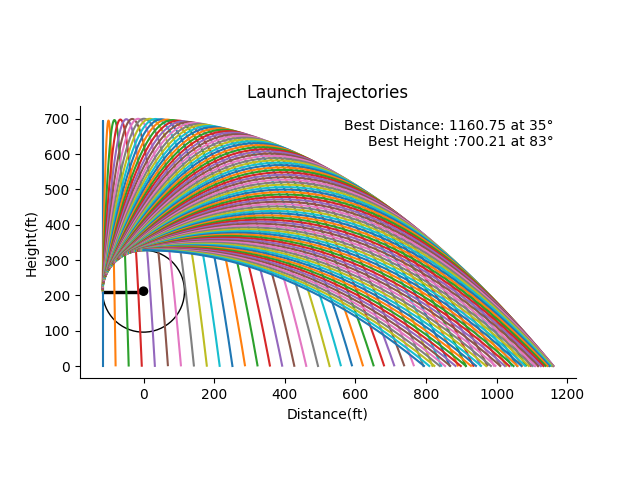
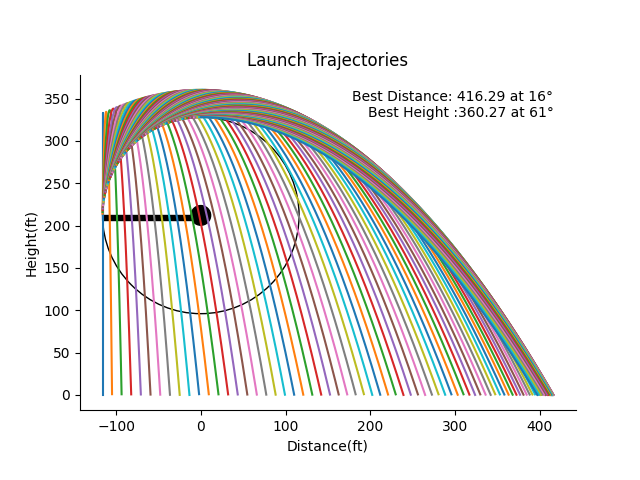
Added functions and classes

diff --git a/windmill.py b/windmill.py
@@ -1,12 +1,102 @@
 import math
 import matplotlib.pyplot as plt
 
-degree_sign = u'\N{DEGREE SIGN}'
+# Make my own ranges, functions, and classes
 def decimal_range(start, stop, decrement):
     while start >= stop:
         yield start
         start -= decrement
 
+class MyCircle:
+    upX, upY, leftX, leftY = [0,0,0,0]
+
+class MyAnnotation:
+    bestDistance, bestDistanceAngle, bestHeightAngle, bestHeight = [0,0,0,0]
+
+def UpdateCircleLocation(angle, time, distance, height):
+    if angle == 0 and time == 0:
+        circle.upX = MetersToFeet(distance)
+        circle.upY = MetersToFeet(height)
+    if angle == 90 and time == 0:
+        circle.leftX = MetersToFeet(distance)
+        circle.leftY = MetersToFeet(height)
+    return
+
+def UpdateBestHeightAndAngle(height, angle):
+    if height > annotation.bestHeight:
+                annotation.bestHeight = height
+                annotation.bestHeightAngle = angle
+    return
+
+def UpdateBestDistanceAndAngle(distance, angle):
+    if distance > annotation.bestDistance:
+        annotation.bestDistance = distance
+        annotation.bestDistanceAngle = angle
+    return
+
+def DrawProjectileLauncher():
+    draw_outer_circle = plt.Circle((circle.upX, circle.leftY), (circle.leftX - circle.upX), fill=False)
+    draw_inner_circle = plt.Circle((circle.upX, circle.leftY), (circle.leftX - circle.upX) / 10, color='black')#, fill=False)
+    draw_rectangle = plt.Rectangle((circle.upX, circle.leftY), (circle.leftX - circle.upX), (circle.leftX - circle.upX) / 20, color='black')
+    axes.set_aspect(1)
+    axes.add_artist(draw_outer_circle)
+    axes.add_artist(draw_inner_circle)
+    axes.add_patch(draw_rectangle)
+    return
+    
+def DrawPlot():
+    plt.gca().spines['top'].set_visible(False)
+    plt.gca().spines['right'].set_visible(False)
+    plt.annotate("Best Distance: {2:.2f} at {0}{1}\nBest Height :{4:.2f} at {3}{1}".format(annotation.bestDistanceAngle, degree_sign, annotation.bestDistance, annotation.bestHeightAngle, annotation.bestHeight), 
+                    xy=(annotation.bestDistance, annotation.bestHeight), ha='right', va='top')
+    plt.ylabel('Height(ft)')
+    plt.xlabel('Distance(ft)')
+    plt.title('Launch Trajectories')
+    figure.savefig("windmill.png")
+    plt.show() 
+    return
+
+def FeetToMeters(measurementInFeet):
+    return measurementInFeet / 3.2808399
+
+def MetersToFeet(measurementInMeters):
+    return measurementInMeters * 3.2808399
+
+def PlotData(velocityInitial, bodyHeight, armLength):
+    for angle in decimal_range(90, 0, 1):
+
+        yVelocityInitial = math.sin(angle * (math.pi / 180)) * velocityInitial
+        xVelocity = math.cos(angle * (math.pi / 180)) * velocityInitial
+        timeToReachApex = yVelocityInitial / 9.81
+        distanceFromStartToApex = (yVelocityInitial * timeToReachApex) + (.5 * -9.81 * (timeToReachApex * timeToReachApex))
+        timeFromApexToGround = math.sqrt((distanceFromStartToApex + bodyHeight) / (.5 * 9.81))
+        timeTotal = timeToReachApex + timeFromApexToGround
+        heightFromBodyToArm = math.cos(angle * (math.pi / 180)) * armLength
+        distanceFromBodyToArm = math.sin(angle * (math.pi / 180)) * armLength
+
+        heights = []
+        distances = []
+        height = bodyHeight + heightFromBodyToArm
+        distance = -distanceFromBodyToArm
+        time = 0
+        UpdateCircleLocation(angle, time, distance, height)
+        while height >= 0:
+            heightFT = MetersToFeet(height)
+            distanceFT = MetersToFeet(distance)
+            heights.append(heightFT)
+            distances.append(distanceFT)
+            height = (yVelocityInitial * time) + (.5 * -9.81 * (time * time)) + bodyHeight + heightFromBodyToArm
+            distance = (xVelocity * time) - distanceFromBodyToArm
+            time += (timeTotal / 1000)
+            UpdateBestHeightAndAngle(heightFT, angle)
+
+        UpdateBestDistanceAndAngle(distanceFT, angle)
+        plt.plot(distances, heights)
+
+# Initialize global variables
+circle = MyCircle()
+annotation = MyAnnotation()
+degree_sign = u'\N{DEGREE SIGN}'
 figure, axes = plt.subplots()
 
 # Read in user input
@@ -14,75 +104,11 @@ velocityInitialString = input("Enter velocity of arm (mph):")
 bodyHeightString = input("Enter height of body up to the arm (ft):")
 armHeightString = input("Enter length of arm (ft):")
 
-# Convert input to float
-velocityInitialMPH = float(velocityInitialString) 
-bodyHeightFT = float(bodyHeightString)
-armLengthFT = float(armHeightString)
+# Convert from US to Metric
+velocityInitial = float(velocityInitialString) / 2.23693629
+bodyHeight = FeetToMeters(float(bodyHeightString))
+armLength = FeetToMeters(float(armHeightString))
 
-velocityInitial = velocityInitialMPH / 2.23693629
-bodyHeight = bodyHeightFT / 3.2808399
-armLength = armLengthFT / 3.2808399
-
-# Plot data
-bestDistance, bestDistanceAngle, bestHeightAngle, bestHeight = [0,0,0,0]
-upX, upY, leftX, leftY = [0, 0, 0, 0]
-for angle in decimal_range(90, 0, 1):
-
-    yVelocityInitial = math.sin(angle * (math.pi / 180)) * velocityInitial
-    xVelocity = math.cos(angle * (math.pi / 180)) * velocityInitial
-    timeToReachApex = yVelocityInitial / 9.81
-    distanceFromStartToApex = (yVelocityInitial * timeToReachApex) + (.5 * -9.81 * (timeToReachApex * timeToReachApex))
-    timeFromApexToGround = math.sqrt((distanceFromStartToApex + bodyHeight) / (.5 * 9.81))
-    timeTotal = timeToReachApex + timeFromApexToGround
-    timeIncrement = timeTotal / 1000
-    angledArmHeight = math.cos(angle * (math.pi / 180)) * armLength
-    distanceFromBodyToArm = math.sin(angle * (math.pi / 180)) * armLength
-
-    heights = []
-    distances = []
-    height = bodyHeight + angledArmHeight
-    time = 0
-    distance = -distanceFromBodyToArm
-    heightFT = height  * 3.2808399
-    distanceFT = distance * 3.2808399
-    if angle == 0 and time == 0:
-        upX = distanceFT
-        upY = heightFT
-    if angle == 90 and time == 0:
-        leftX = distanceFT
-        leftY = heightFT
-    while height >= 0:
-        heightFT = height  * 3.2808399
-        distanceFT = distance * 3.2808399
-        heights.append(heightFT)
-        distances.append(distanceFT)
-        height = (yVelocityInitial * time) + (.5 * -9.81 * (time * time)) + bodyHeight + angledArmHeight
-        distance = (xVelocity * time) - distanceFromBodyToArm
-        time += timeIncrement
-        if heightFT > bestHeight:
-                bestHeight = heightFT
-                bestHeightAngle = angle
-
-    if distanceFT > bestDistance:
-        bestDistance = distanceFT
-        bestDistanceAngle = angle
-
-    plt.plot(distances, heights)#, label="{0}{1}".format(angle, degree_sign)
-
-#plt.legend(loc ="upper right")
-draw_outer_circle = plt.Circle((upX, leftY), (leftX - upX), fill=False)
-draw_inner_circle = plt.Circle((upX, leftY), (leftX - upX) / 10, color='black')#, fill=False)
-axes.set_aspect(1)
-axes.add_artist(draw_outer_circle)
-axes.add_artist(draw_inner_circle)
-axes.add_patch(plt.Rectangle((upX, leftY), (leftX - upX), (leftX - upX) / 20, color='black'))
-
-plt.gca().spines['top'].set_visible(False)
-plt.gca().spines['right'].set_visible(False)
-plt.annotate("Best Distance: {2:.2f} at {0}{1}\nBest Height :{4:.2f} at {3}{1}".format(bestDistanceAngle, degree_sign, bestDistance, bestHeightAngle, bestHeight), 
-                xy=(bestDistance, bestHeight), ha='right', va='top')
-plt.ylabel('Height(ft)')
-plt.xlabel('Distance(ft)')
-plt.title('Launch Trajectories')
-figure.savefig("windmill.png")
-plt.show() 
+PlotData(velocityInitial, bodyHeight, armLength)
+DrawProjectileLauncher()
+DrawPlot()
